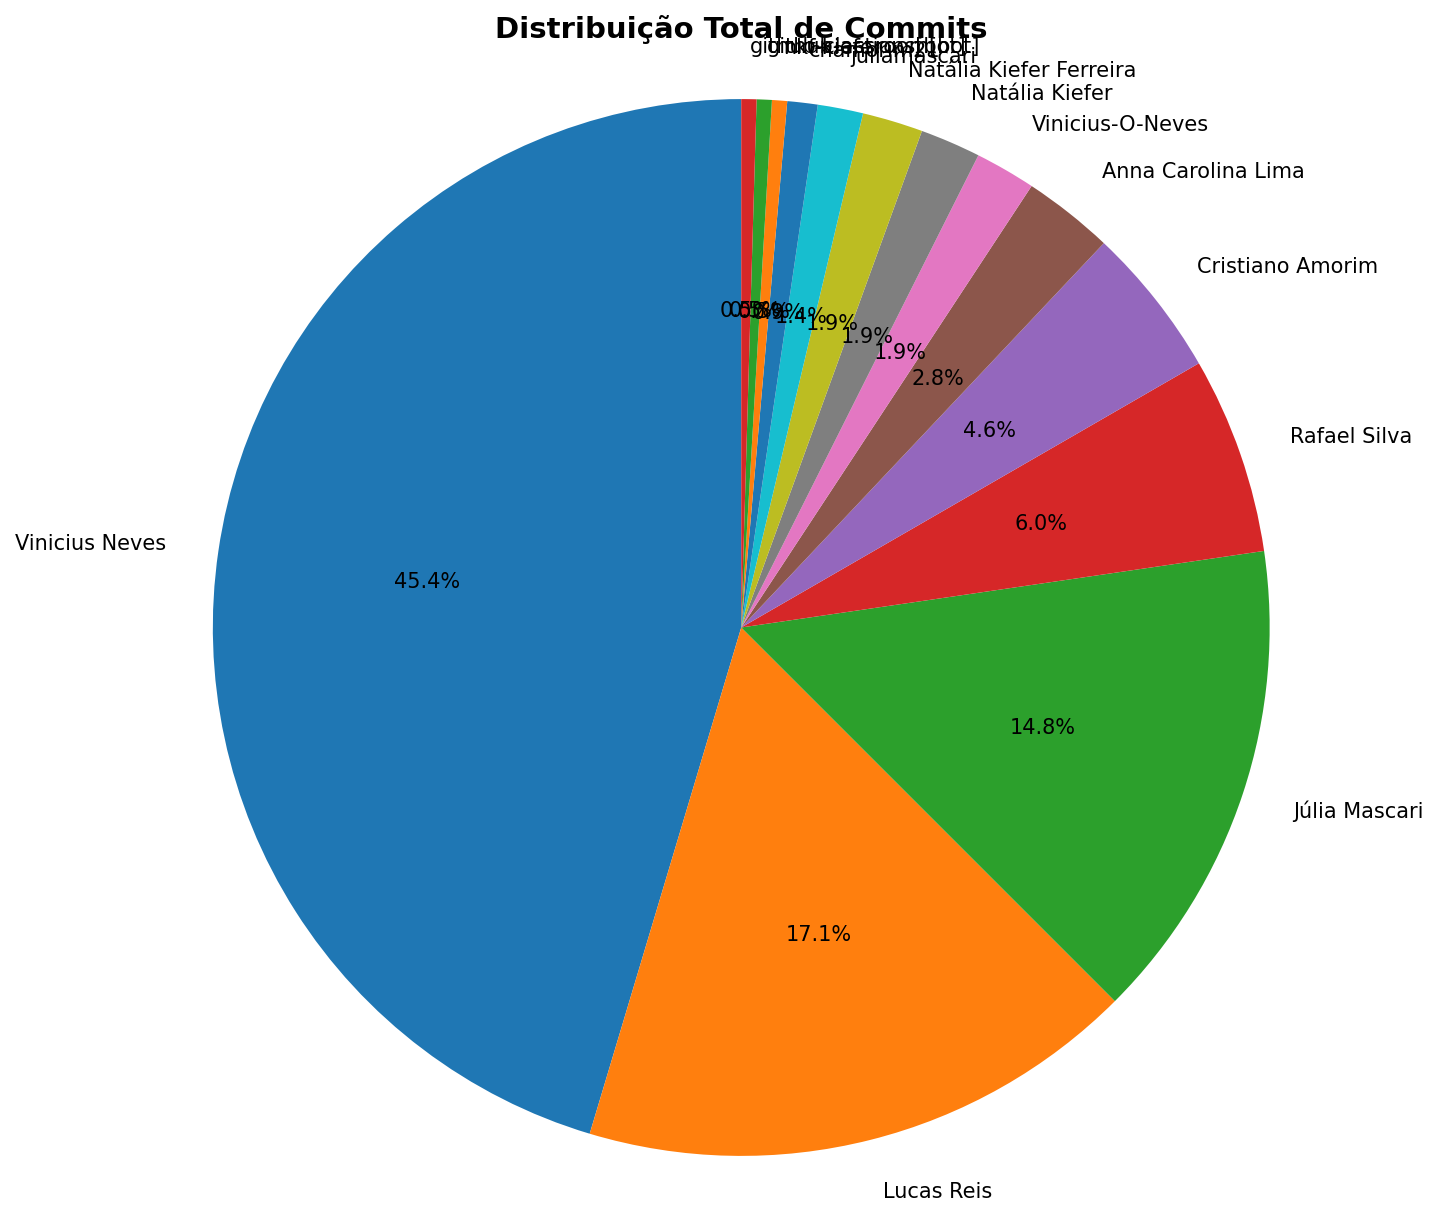
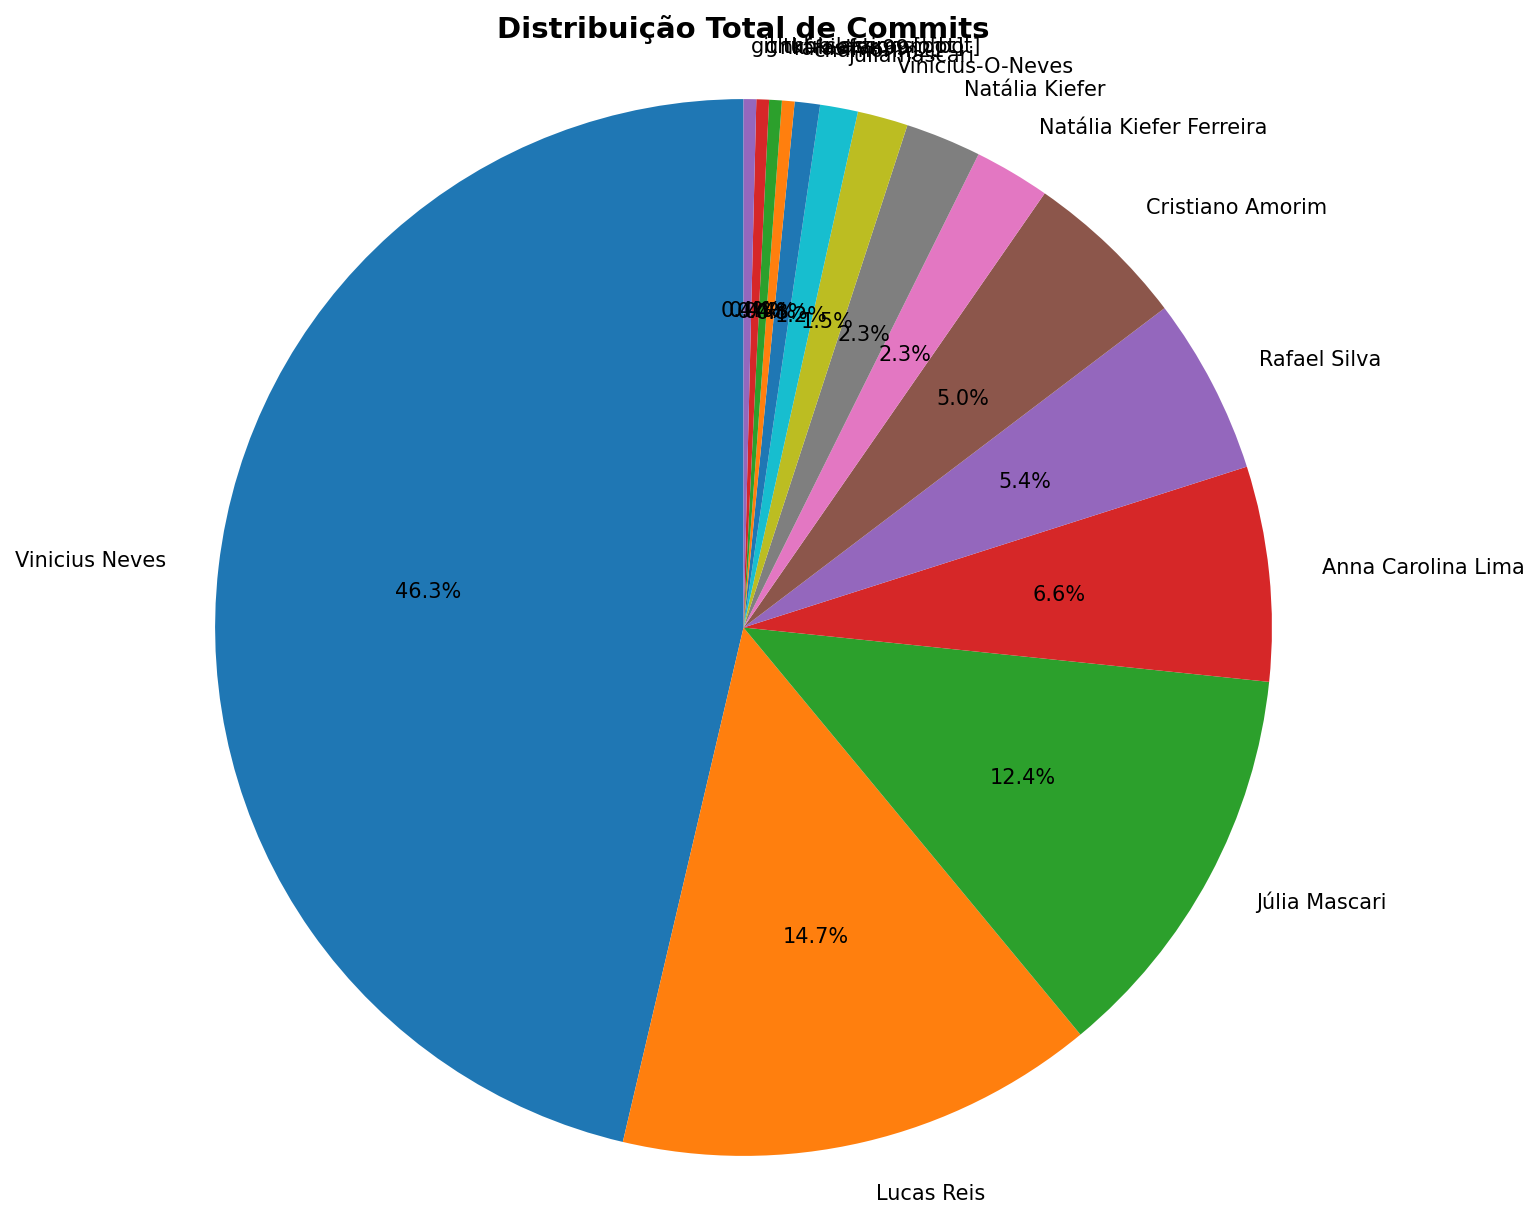
📊 docs: atualizar relatório de contribuições

diff --git a/docs/CONTRIBUTION_REPORT.md b/docs/CONTRIBUTION_REPORT.md
@@ -1,6 +1,6 @@
 # 📊 Relatório de Contribuições do Projeto
 
-**Última atualização:** 13/04/2026 16:17
+**Última atualização:** 09/05/2026 14:38
 
 ---
 
@@ -8,35 +8,42 @@
 
 | Aluno                   |   Commits |   Linhas+ |   Linhas- |   Arquivos |   Docs Commits |   Docs Arquivos |
 |-------------------------|-----------|-----------|-----------|------------|----------------|-----------------|
-| Anna Carolina Lima      |         6 |       218 |        13 |         19 |              6 |               2 |
-| Cristiano Amorim        |        10 |       250 |        23 |          9 |              1 |               2 |
+| Anna Carolina Lima      |        17 |      1602 |       374 |         41 |             11 |               3 |
+| Cristiano Amorim        |        13 |       610 |        36 |         23 |              3 |               3 |
 | Júlia Mascari           |        32 |       431 |       171 |          8 |             23 |               4 |
-| Lucas Reis              |        37 |      2637 |        41 |         33 |             25 |               3 |
-| Natália Kiefer          |         4 |       853 |       255 |         18 |              1 |               1 |
-| Natália Kiefer Ferreira |         4 |        19 |        19 |          1 |              1 |               1 |
-| Rafael Silva            |        13 |      1011 |        60 |         48 |             12 |               4 |
-| Vinicius Neves          |        98 |   1302745 |   1291537 |       5732 |             31 |               6 |
+| Lucas Reis              |        38 |      5337 |       633 |         59 |             26 |               3 |
+| Natália Kiefer          |         6 |      2805 |       260 |         35 |              3 |               2 |
+| Natália Kiefer Ferreira |         6 |        19 |        19 |          1 |              1 |               1 |
+| Rafael Silva            |        14 |      1011 |        60 |         48 |             12 |               4 |
+| Vinicius Neves          |       120 |   1308882 |   1292108 |       5801 |             41 |               6 |
 | Vinicius-O-Neves        |         4 |        31 |        19 |          4 |              2 |               1 |
 | chamorim21              |         2 |        28 |        20 |          3 |              2 |               1 |
 | github-actions[bot]     |         1 |        28 |        31 |          3 |              1 |               1 |
 | github-classroom[bot]   |         1 |      2152 |         0 |         45 |              1 |              13 |
 | juliamascari            |         3 |       284 |        92 |         12 |              0 |               0 |
 | nkf-kiefer              |         1 |        16 |        15 |          3 |              1 |               1 |
+| rafasilva99             |         1 |        21 |        15 |          3 |              1 |               1 |
 
 
 ## 📅 Contribuições Semanais (Todo o Semestre)
 
-**2026-04-06**: Anna Carolina Lima: 4, Cristiano Amorim: 8, Júlia Mascari: 18, Lucas Reis: 11, Natália Kiefer: 2, Natália Kiefer Ferreira: 3, Rafael Silva: 7, Vinicius Neves: 38, Vinicius-O-Neves: 2, chamorim21: 2, juliamascari: 1
+**2026-05-02**: Anna Carolina Lima: 4, Lucas Reis: 1, Natália Kiefer: 1, Natália Kiefer Ferreira: 1, Rafael Silva: 1, Vinicius Neves: 10, rafasilva99: 1
 
-**2026-03-30**: Júlia Mascari: 1, Natália Kiefer: 2, Vinicius Neves: 21, juliamascari: 2
+**2026-04-18**: Anna Carolina Lima: 7, Cristiano Amorim: 3, Natália Kiefer Ferreira: 1, Vinicius Neves: 11
 
-**2026-03-16**: Natália Kiefer Ferreira: 1, Vinicius Neves: 8, Vinicius-O-Neves: 2, github-actions[bot]: 1, nkf-kiefer: 1
+**2026-04-11**: Anna Carolina Lima: 4, Júlia Mascari: 17, Lucas Reis: 11, Natália Kiefer: 1, Rafael Silva: 7, Vinicius Neves: 32, Vinicius-O-Neves: 2
 
-**2026-03-09**: Anna Carolina Lima: 1, Lucas Reis: 7, Rafael Silva: 3, Vinicius Neves: 11
+**2026-04-04**: Cristiano Amorim: 8, Júlia Mascari: 2, Natália Kiefer: 3, Natália Kiefer Ferreira: 3, Vinicius Neves: 17, chamorim21: 2, juliamascari: 3
 
-**2026-03-02**: Anna Carolina Lima: 1, Cristiano Amorim: 2, Júlia Mascari: 13, Lucas Reis: 19, Rafael Silva: 3, Vinicius Neves: 20
+**2026-03-28**: Natália Kiefer: 1, Vinicius Neves: 11
 
-**2026-02-16**: github-classroom[bot]: 1
+**2026-03-14**: Natália Kiefer Ferreira: 1, Vinicius Neves: 19, Vinicius-O-Neves: 2, github-actions[bot]: 1, nkf-kiefer: 1
+
+**2026-03-07**: Anna Carolina Lima: 1, Júlia Mascari: 4, Lucas Reis: 19, Rafael Silva: 5, Vinicius Neves: 12
+
+**2026-02-28**: Anna Carolina Lima: 1, Cristiano Amorim: 2, Júlia Mascari: 9, Lucas Reis: 7, Rafael Silva: 1, Vinicius Neves: 8
+
+**2026-02-14**: github-classroom[bot]: 1
 
 
 
